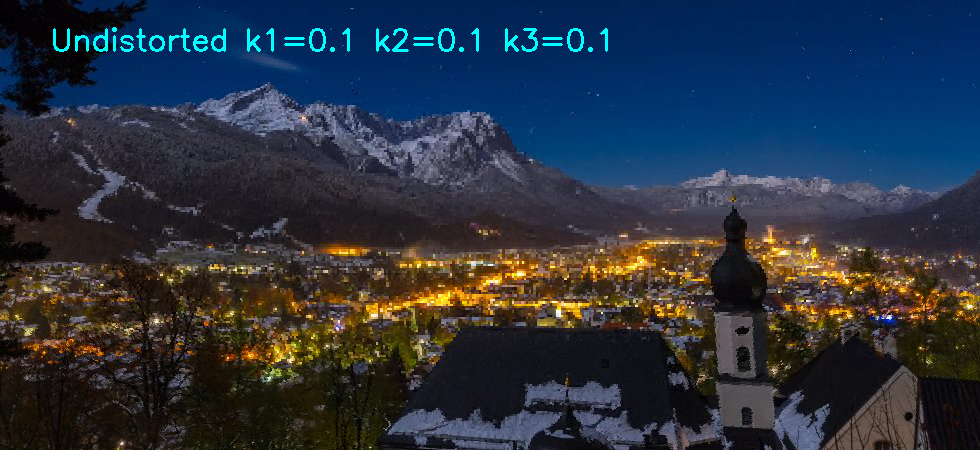
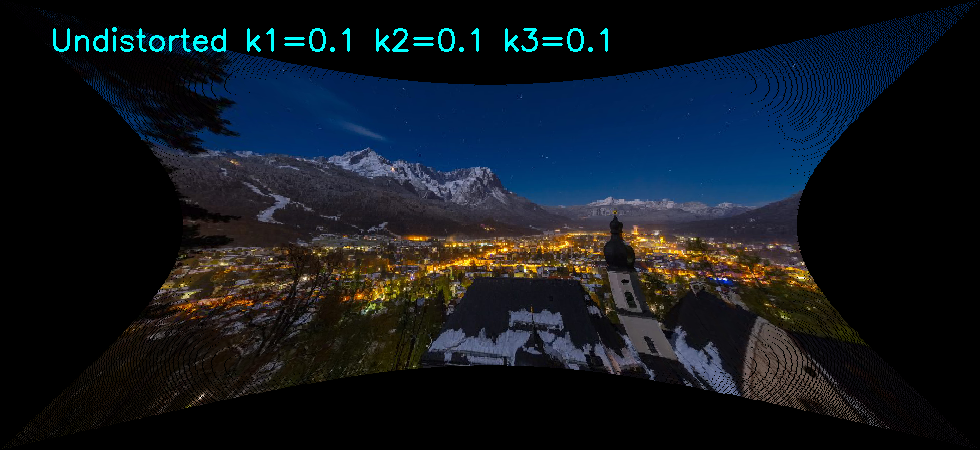
proper image export + added example images

diff --git a/main.py b/main.py
@@ -7,13 +7,14 @@ from lib.distort import img_distort
 from lib.undistort import img_undistort
 
 # load image 
-img = cv2.imread('Images/Original/Image2.jpg')
+img = cv2.imread('Images/Original/Image.jpg')
 img_RGB = cv2.cvtColor(img, cv2.COLOR_BGR2RGB)
 
 # distort image 
-k_vals = [0.1,0.1,0.1,1] #[k1,k2,k3,pos] where pos =1 if k values are pos and 0 if neg
+k_vals = [-0.05,-0.05,-0.05,0] #[k1,k2,k3,pos] where pos = 1 if k values are pos and 0 if neg
+k_num = 3 # number of k values to use for recovery of distorted image
 img_distorted_RGB = img_distort(img_RGB, k_vals)
-img_undistorted_RGB = img_undistort(img_distorted_RGB, k_vals, 3)
+img_undistorted_RGB = img_undistort(img_distorted_RGB, k_vals, k_num)
 
 img_distorted = cv2.cvtColor(img_distorted_RGB, cv2.COLOR_RGB2BGR)
 img_undistorted = cv2.cvtColor(img_undistorted_RGB, cv2.COLOR_RGB2BGR)
@@ -25,7 +26,9 @@ k_save = "k1="+str(k_vals[0])+"_k2="+str(k_vals[1])+"_k3="+str(k_vals[2])
 cv2.putText(img_distorted, k_text, (50,50),cv2.FONT_HERSHEY_SIMPLEX,1,(255, 255, 0), 2)
 cv2.imwrite(path+'\\Images\\Distorted\\' +k_save+'.png',img_distorted)
 
-# save distorted image
+# save undistorted image
+k_text = k_text + " " + str(k_num) + " ks"
+k_save = k_save + "_" + str(k_num) + "ks"
 path = os.path.abspath(os.getcwd())
 cv2.putText(img_undistorted, 'Undistorted '+ k_text, (50,50),cv2.FONT_HERSHEY_SIMPLEX,1,(255, 255, 0), 2)
 cv2.imwrite(path+'\\Images\\UnDistorted\\' +k_save+'.png',img_undistorted)
